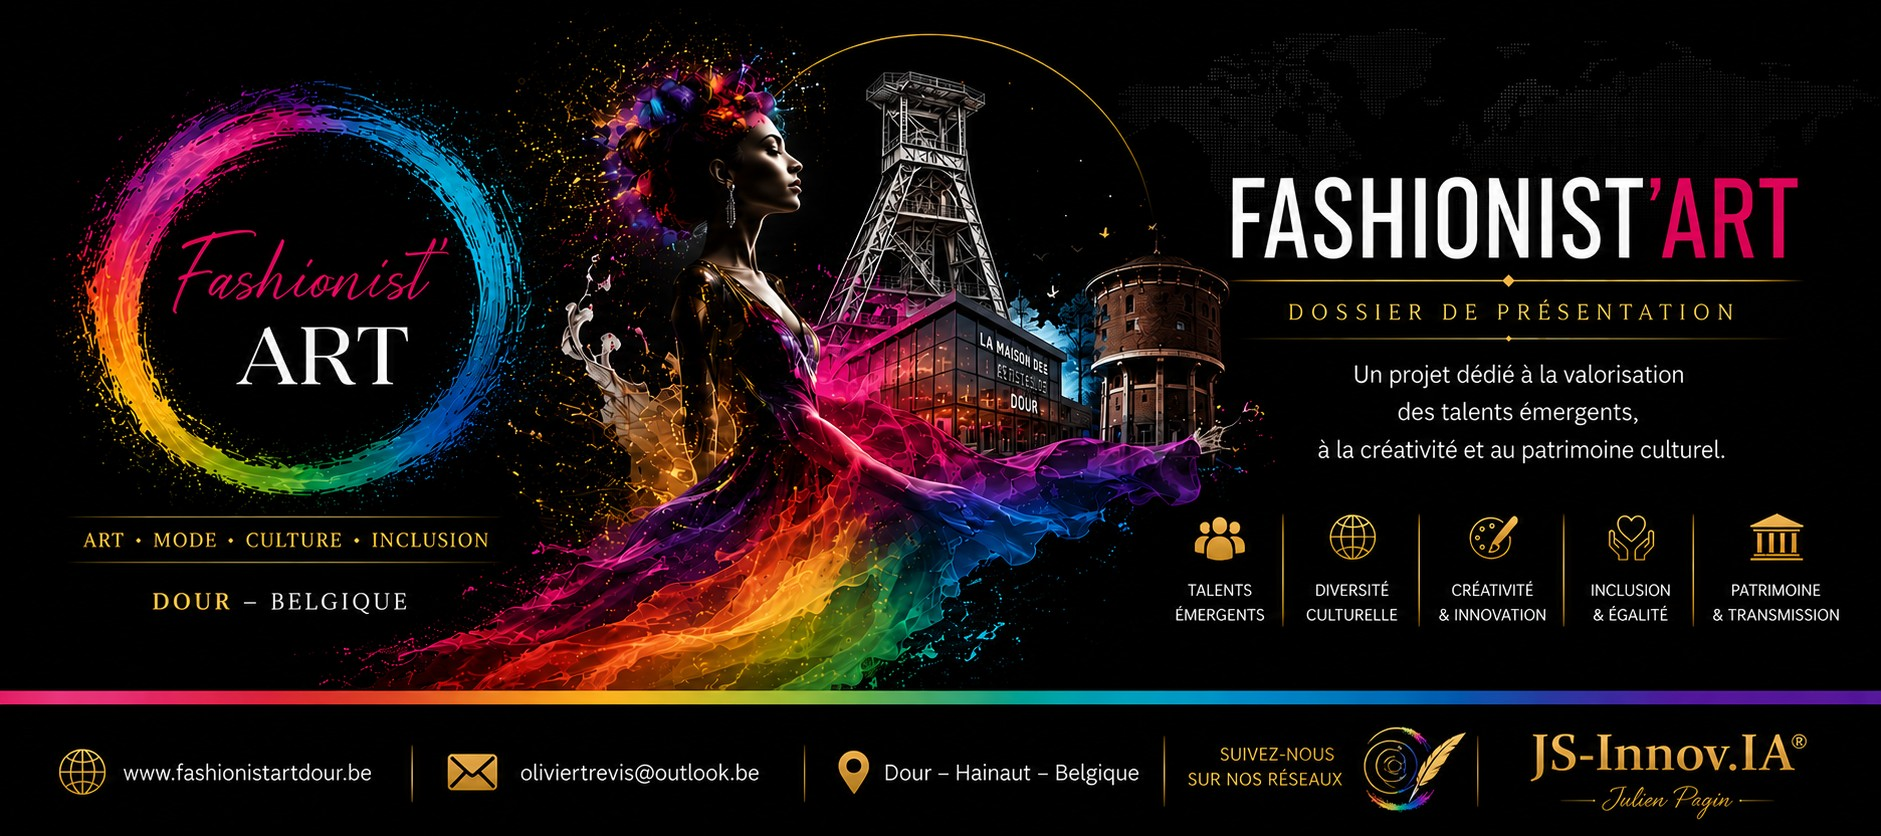
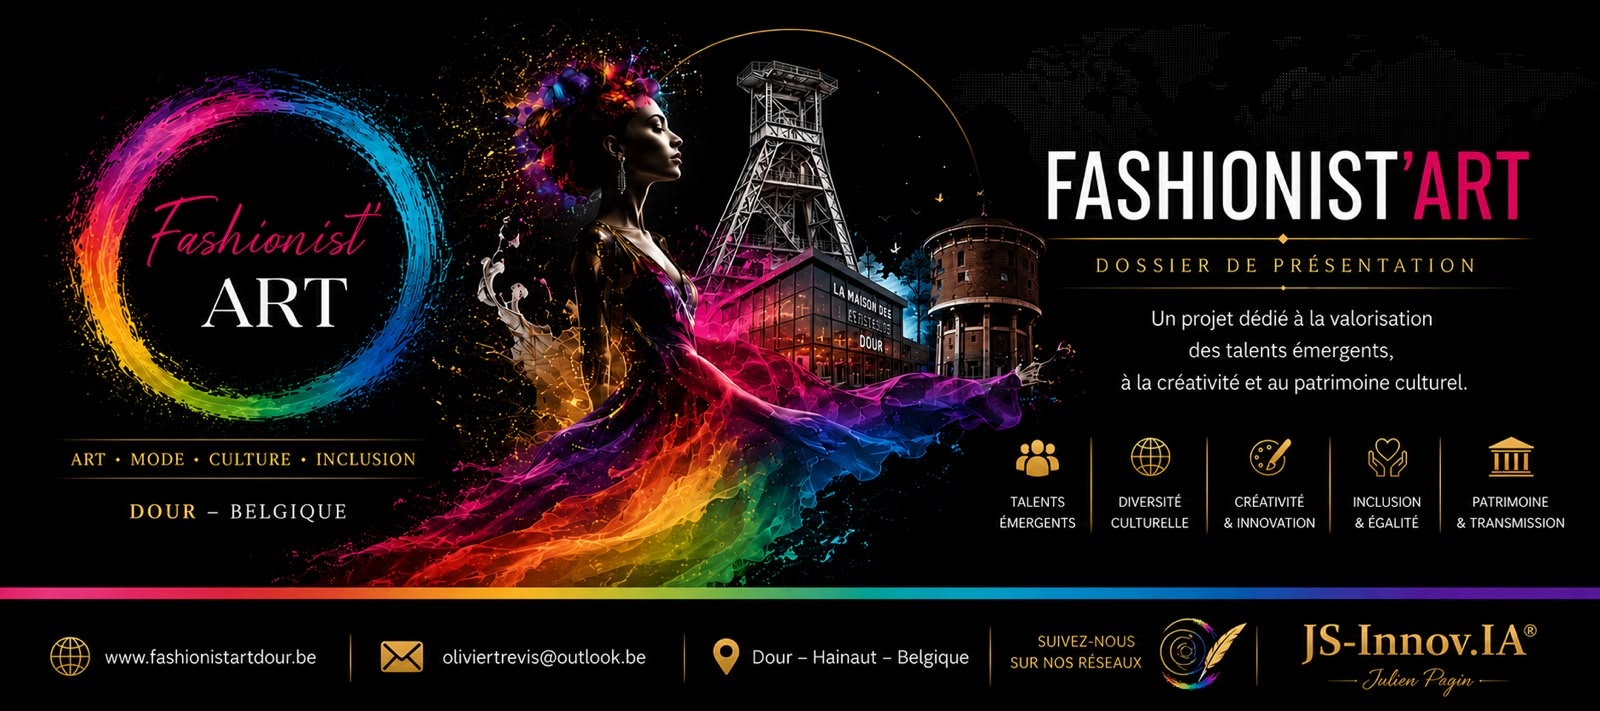
fix(og): nouvelle bannière FashionistART officielle pour preview WhatsApp /unesco (1600x711)

diff --git a/public/unesco.html b/public/unesco.html
@@ -19,8 +19,8 @@
   <meta property="og:image" content="https://www.oliviertrevis.be/fashionistart-banner.jpg" />
   <meta property="og:image:secure_url" content="https://www.oliviertrevis.be/fashionistart-banner.jpg" />
   <meta property="og:image:type" content="image/jpeg" />
-  <meta property="og:image:width" content="1881" />
-  <meta property="og:image:height" content="836" />
+  <meta property="og:image:width" content="1600" />
+  <meta property="og:image:height" content="711" />
   <meta property="og:image:alt" content="Fashionist'ART Dour — Dossier UNESCO 2027" />
 
   <!-- TWITTER CARD -->
